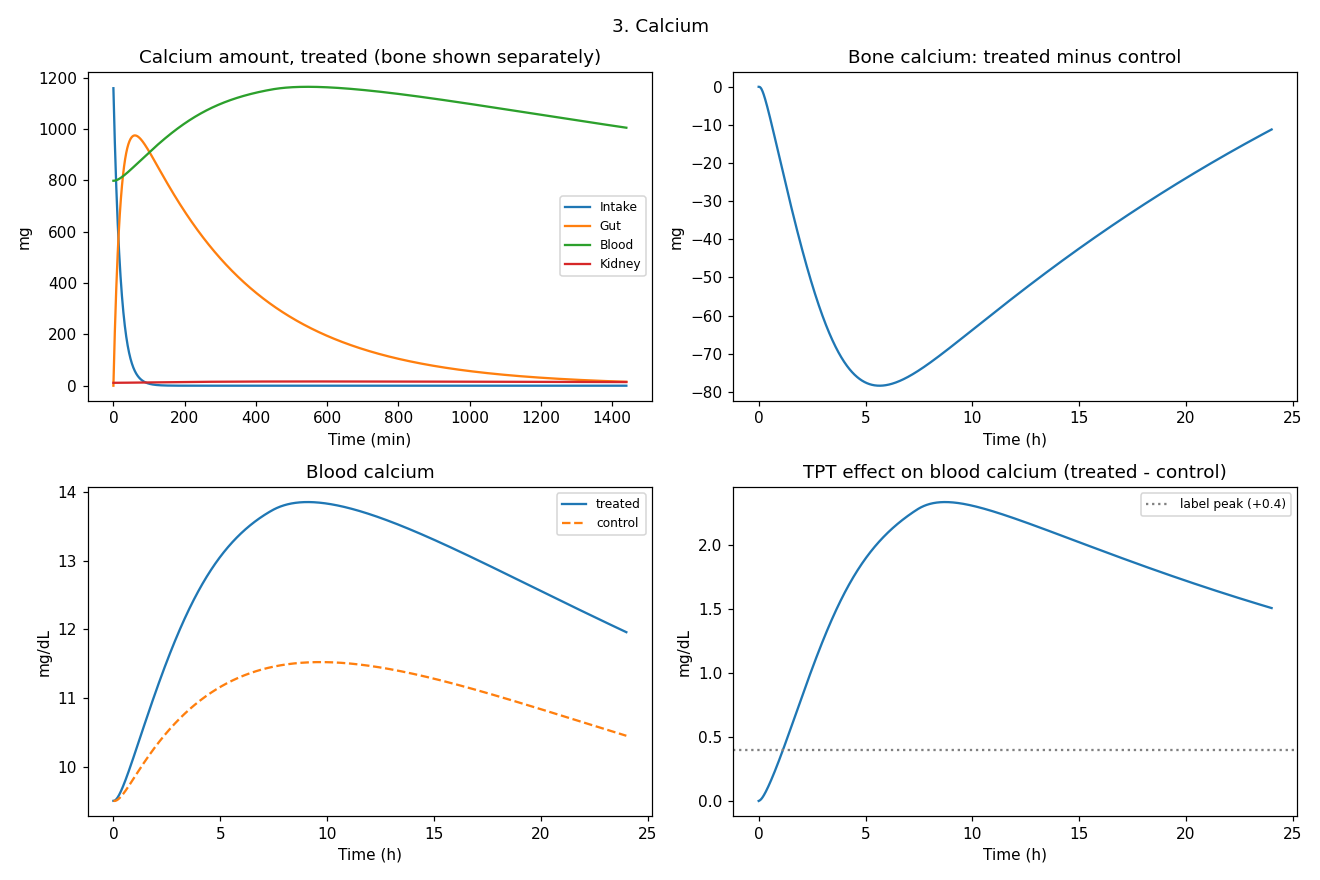
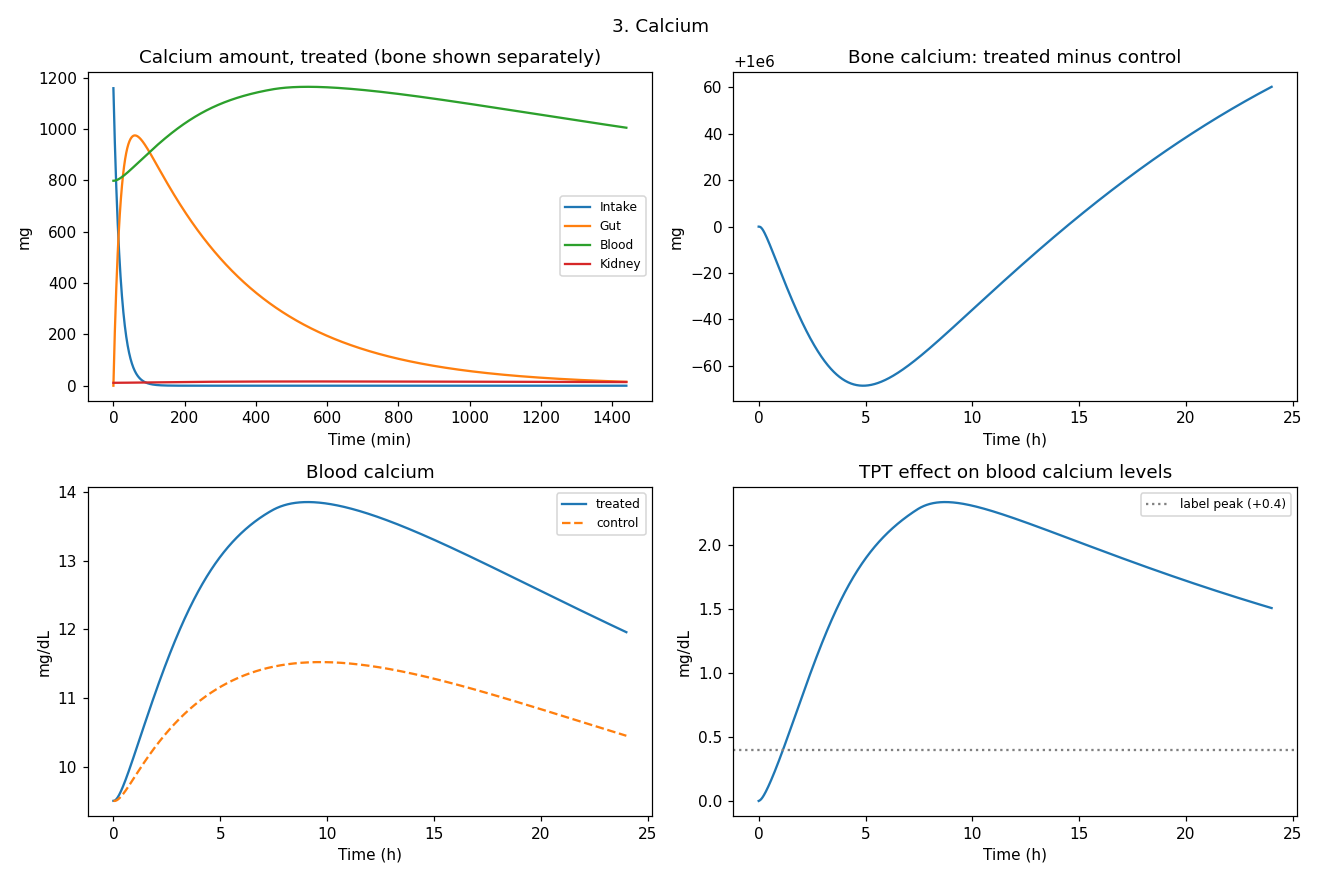
slight changes, healthy human graph still chopped

diff --git a/Version 2/main.py b/Version 2/main.py
@@ -324,7 +324,7 @@ def compute_outputs(sim):
     out["Ca_blood_concen_mg_per_L"] = A.y[2] / tpt.Vol_blood_in_bone
     out["Ca_blood_control_mg_per_L"] = Ac.y[2] / tpt.Vol_blood_in_bone
     out["Ca_blood_TPT_effect_mg_per_dL"] = (out["Ca_blood_concen_mg_per_L"] - out["Ca_blood_control_mg_per_L"]) / 10
-    out["bone_Ca_TPT_effect_mg"] = A.y[4] - Ac.y[4]
+    out["bone_Ca_levels_TPT_effect"] = A.y[4]
 
     # Rates over time (for plots)
     out["rates"] = calcium_rates(T.y[2], T.y[4], C.y[1], H)
@@ -366,7 +366,7 @@ def print_summary(sim, out):
     print(f"Calcium: CONTROL drift: blood Ca {ca_c[0]/10:.2f} -> {ca_c[-1]/10:.2f} mg/dL over 24 h")
     effect = out["Ca_blood_TPT_effect_mg_per_dL"]
     print(f"  TPT effect on blood Ca (treated - control): peak {effect.max():+.3f} mg/dL at {t[np.argmax(effect)]/60:.1f} h (label ~ +{LABEL_CALCIUM_PEAK_RISE_MG_PER_DL})")
-    print(f"  TPT effect on bone Ca after 24 h: {out['bone_Ca_TPT_effect_mg'][-1]:+.1f} mg")
+    print(f"  TPT effect on bone Ca after 24 h: {out['bone_Ca_levels_TPT_effect'][-1]:+.1f} mg")
     k_abs_basal = calcium.basal_absorb_Ca * calcium.gut_absorption_turnover_rate       # rate at calcitriol effect = 1
     absorbed_share = k_abs_basal / (k_abs_basal + base["gut_waste"])
     print(f"  Gut: absorbed share at basal calcitriol = {absorbed_share:.2f} (basal_absorb_Ca = {calcium.basal_absorb_Ca:.2f})")
@@ -414,7 +414,7 @@ def make_plots(sim, out):
     ax[1].set(title="Blood calcitriol", xlabel="Time (h)", ylabel="pg/mL"); ax[1].legend(fontsize=8)
     ax[2].plot(h, out["rates"]["calcitriol_impact"], label="treated")
     ax[2].plot(h, out["rates_control"]["calcitriol_impact"], "--", label="control")
-    ax[2].set(title="Calcitriol effect on gut absorption (1 = basal)", xlabel="Time (h)"); ax[2].legend(fontsize=8)
+    ax[2].set(title="Calcitriol effect on gut absorption (1 = basal)", xlabel="Time (h)", ylabel="Multiplier (k)"); ax[2].legend(fontsize=8)
     fig.suptitle("2. Calcitriol"); fig.tight_layout(); figures["2_calcitriol"] = fig
 
     # ---- Figure 3: calcium ------------------------------------------------------------------
@@ -423,14 +423,14 @@ def make_plots(sim, out):
         ax[0, 0].plot(t, A.y[index], label=label)
     ax[0, 0].set(title="Calcium amount, treated (bone shown separately)", xlabel="Time (min)", ylabel="mg")
     ax[0, 0].legend(fontsize=8)
-    ax[0, 1].plot(h, out["bone_Ca_TPT_effect_mg"])
+    ax[0, 1].plot(h, out["bone_Ca_levels_TPT_effect"])
     ax[0, 1].set(title="Bone calcium: treated minus control", xlabel="Time (h)", ylabel="mg")
     ax[1, 0].plot(h, out["Ca_blood_concen_mg_per_L"] / 10, label="treated")
     ax[1, 0].plot(h, out["Ca_blood_control_mg_per_L"] / 10, "--", label="control")
     ax[1, 0].set(title="Blood calcium", xlabel="Time (h)", ylabel="mg/dL"); ax[1, 0].legend(fontsize=8)
     ax[1, 1].plot(h, out["Ca_blood_TPT_effect_mg_per_dL"])
     ax[1, 1].axhline(LABEL_CALCIUM_PEAK_RISE_MG_PER_DL, color="gray", ls=":", label="label peak (+0.4)")
-    ax[1, 1].set(title="TPT effect on blood calcium (treated - control)", xlabel="Time (h)", ylabel="mg/dL")
+    ax[1, 1].set(title="TPT effect on blood calcium levels", xlabel="Time (h)", ylabel="mg/dL")
     ax[1, 1].legend(fontsize=8)
     fig.suptitle("3. Calcium"); fig.tight_layout(); figures["3_calcium"] = fig
 
